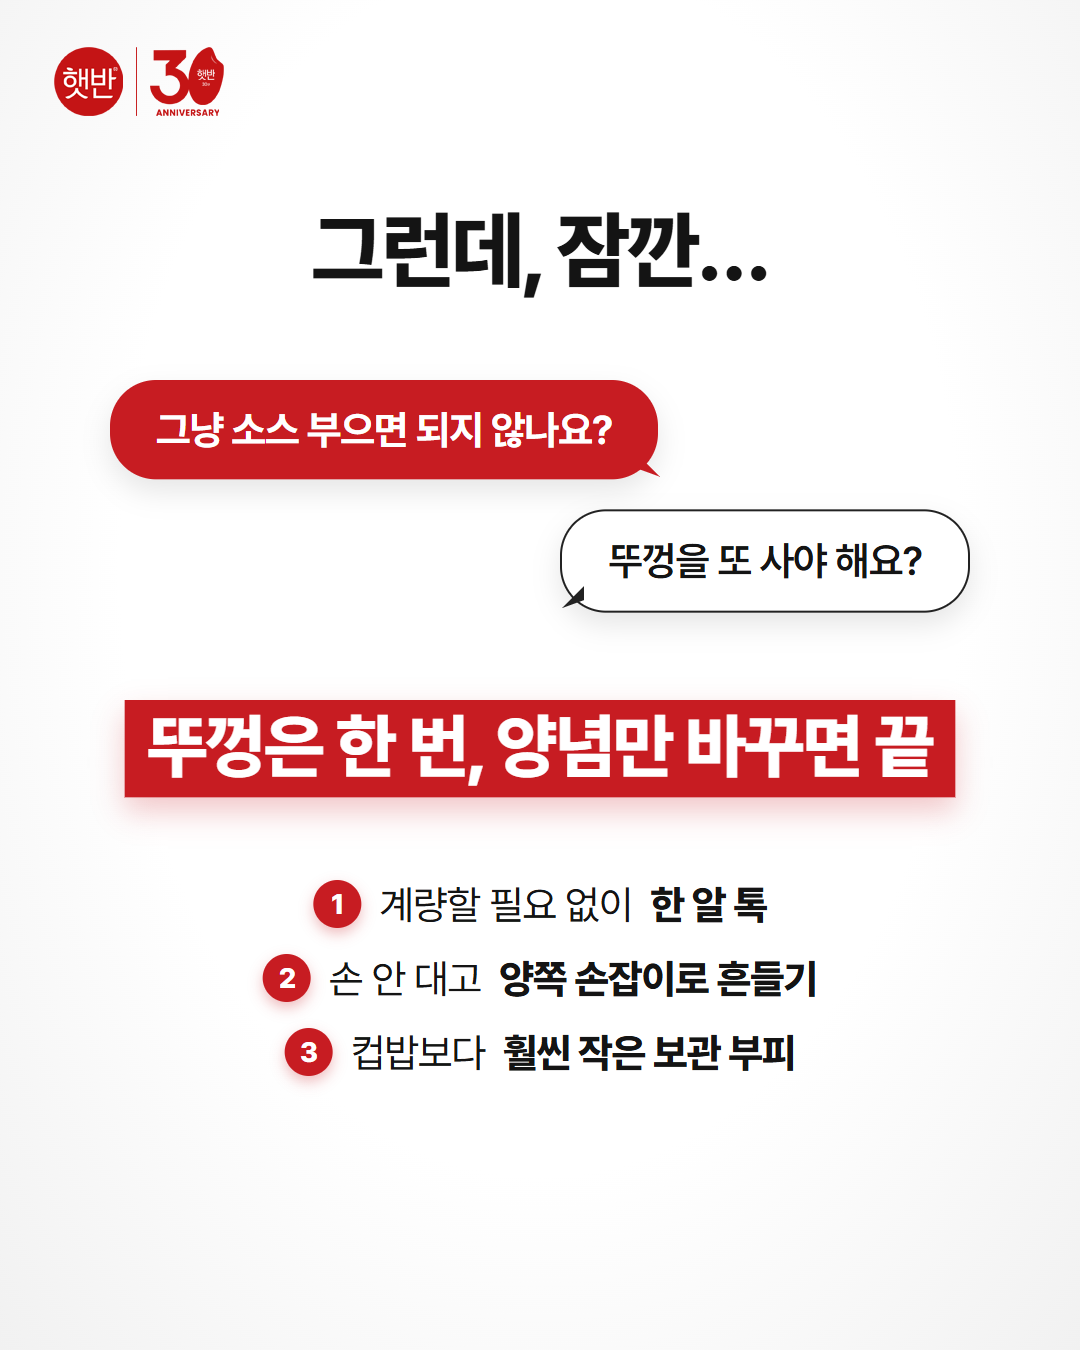
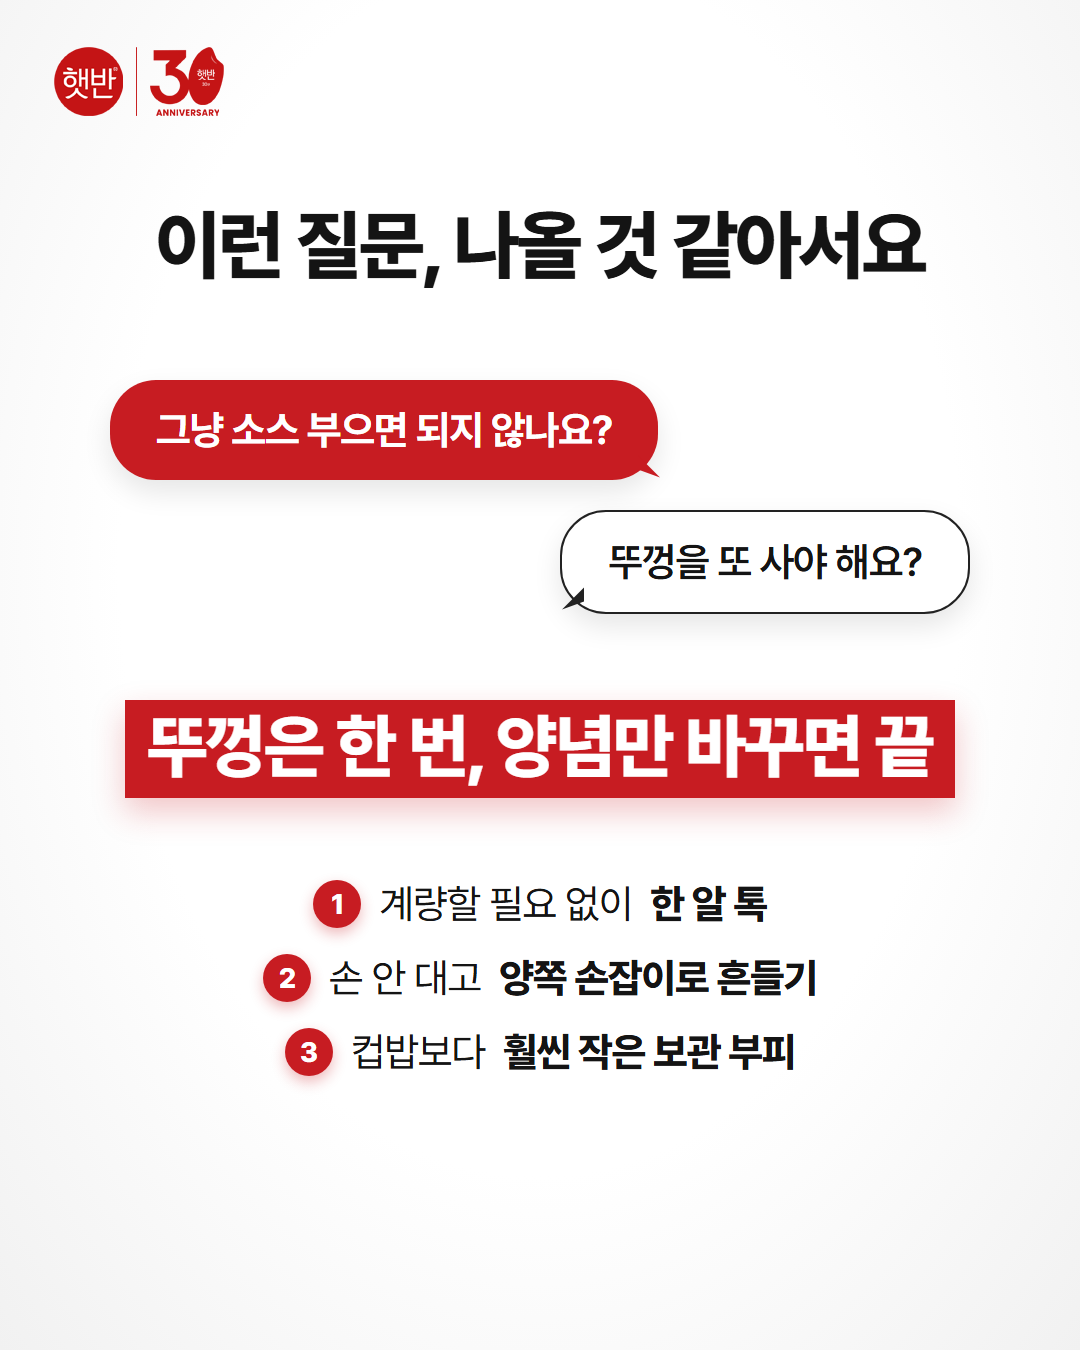
Auto-sync: 2026-11-13 23:48:06

diff --git a/햇반공모전/캐러셀_슬라이드.html b/햇반공모전/캐러셀_슬라이드.html
@@ -84,7 +84,7 @@ body{background:#ddd;font-family:Pretendard,"Malgun Gothic",sans-serif;color:var
 <section class="slide" id="s10">
   <div class="logo"><img src="참고이미지/햇반30로고.png"></div>
   <div class="center" style="top:200px">
-    <div class="h-bold" style="font-size:84px">그런데, 잠깐…</div>
+    <div class="h-bold" style="font-size:76px">이런 질문, 나올 것 같아서요</div>
   </div>
   <div class="bubbles" style="top:380px">
     <div class="b r" style="align-self:flex-start">그냥 소스 부으면 되지 않나요?</div>
@@ -188,10 +188,11 @@ body{background:#ddd;font-family:Pretendard,"Malgun Gothic",sans-serif;color:var
 </section>
 
 <!-- 09 부피 -->
-<section class="slide" id="s09" style="background:radial-gradient(ellipse at 50% 50%,#f1f1f0,#ebebea 80%)">
-  <img src="출품1_이미지/P7.webp" style="position:absolute;left:100px;top:270px;width:880px;-webkit-mask-image:linear-gradient(90deg,transparent,#000 9%,#000 91%,transparent),linear-gradient(180deg,transparent,#000 7%,#000 93%,transparent);-webkit-mask-composite:source-in;mask-image:linear-gradient(90deg,transparent,#000 9%,#000 91%,transparent),linear-gradient(180deg,transparent,#000 7%,#000 93%,transparent);mask-composite:intersect">
-  <div style="position:absolute;left:405px;top:466px;width:220px;height:68px;background:linear-gradient(180deg,#efece6,#eeebe4 55%,#e9e5dd);filter:blur(2px);clip-path:polygon(18px 4px,217px 4px,214px 38px,198px 40px,196px 64px,76px 64px,74px 49px,40px 44px,18px 40px)"></div>
-  <div style="position:absolute;left:728px;top:1128px;width:195px;height:148px;background:radial-gradient(ellipse 50% 50% at 50% 50%,#eeeeec 72%,rgba(238,238,236,0) 100%)"></div><div style="position:absolute;left:744px;top:1160px;width:56px;height:41px;overflow:hidden"><img src="출품1_이미지/P3.webp" style="position:absolute;left:-27.5px;top:-303.2px;width:299.2px;mix-blend-mode:multiply"></div><div style="position:absolute;left:800px;top:1160px;width:56px;height:41px;overflow:hidden"><img src="출품1_이미지/P3.webp" style="position:absolute;left:-91.2px;top:-303.2px;width:299.2px;mix-blend-mode:multiply"></div><div style="position:absolute;left:856px;top:1160px;width:56px;height:41px;overflow:hidden"><img src="출품1_이미지/P3.webp" style="position:absolute;left:-154.9px;top:-303.2px;width:299.2px;mix-blend-mode:multiply"></div><div style="position:absolute;left:744px;top:1205px;width:56px;height:41px;overflow:hidden"><img src="출품1_이미지/P3.webp" style="position:absolute;left:-217.1px;top:-303.2px;width:299.2px;mix-blend-mode:multiply"></div><div style="position:absolute;left:800px;top:1205px;width:56px;height:41px;overflow:hidden"><img src="출품1_이미지/P3.webp" style="position:absolute;left:-27.5px;top:-303.2px;width:299.2px;mix-blend-mode:multiply"></div><div style="position:absolute;left:856px;top:1205px;width:56px;height:41px;overflow:hidden"><img src="출품1_이미지/P3.webp" style="position:absolute;left:-154.9px;top:-303.2px;width:299.2px;mix-blend-mode:multiply"></div>
+<section class="slide" id="s09">
+  
+  
+  <div style="position:absolute;inset:0;filter:brightness(1.065) contrast(1.04)"><img src="출품1_이미지/P7.webp" style="position:absolute;left:100px;top:270px;width:880px;-webkit-mask-image:linear-gradient(90deg,transparent,#000 9%,#000 91%,transparent),linear-gradient(180deg,transparent,#000 7%,#000 93%,transparent);-webkit-mask-composite:source-in;mask-image:linear-gradient(90deg,transparent,#000 9%,#000 91%,transparent),linear-gradient(180deg,transparent,#000 7%,#000 93%,transparent);mask-composite:intersect"><div style="position:absolute;left:405px;top:466px;width:220px;height:68px;background:linear-gradient(180deg,#efece6,#eeebe4 55%,#e9e5dd);filter:blur(2px);clip-path:polygon(18px 4px,217px 4px,214px 38px,198px 40px,196px 64px,76px 64px,74px 49px,40px 44px,18px 40px)"></div></div>
+  <div style="position:absolute;left:728px;top:1128px;width:195px;height:148px;background:radial-gradient(ellipse 50% 50% at 50% 50%,#fdfdfc 72%,rgba(253,253,252,0) 100%)"></div><div style="position:absolute;left:744px;top:1160px;width:56px;height:41px;overflow:hidden"><img src="출품1_이미지/P3.webp" style="position:absolute;left:-27.5px;top:-303.2px;width:299.2px;mix-blend-mode:multiply"></div><div style="position:absolute;left:800px;top:1160px;width:56px;height:41px;overflow:hidden"><img src="출품1_이미지/P3.webp" style="position:absolute;left:-91.2px;top:-303.2px;width:299.2px;mix-blend-mode:multiply"></div><div style="position:absolute;left:856px;top:1160px;width:56px;height:41px;overflow:hidden"><img src="출품1_이미지/P3.webp" style="position:absolute;left:-154.9px;top:-303.2px;width:299.2px;mix-blend-mode:multiply"></div><div style="position:absolute;left:744px;top:1205px;width:56px;height:41px;overflow:hidden"><img src="출품1_이미지/P3.webp" style="position:absolute;left:-217.1px;top:-303.2px;width:299.2px;mix-blend-mode:multiply"></div><div style="position:absolute;left:800px;top:1205px;width:56px;height:41px;overflow:hidden"><img src="출품1_이미지/P3.webp" style="position:absolute;left:-27.5px;top:-303.2px;width:299.2px;mix-blend-mode:multiply"></div><div style="position:absolute;left:856px;top:1205px;width:56px;height:41px;overflow:hidden"><img src="출품1_이미지/P3.webp" style="position:absolute;left:-154.9px;top:-303.2px;width:299.2px;mix-blend-mode:multiply"></div>
   <div class="logo"><img src="참고이미지/햇반30로고.png"></div>
   <div class="center" style="top:150px">
     <div class="h-bold" style="font-size:70px">부피는 줄이고, <span class="box" style="font-size:70px;padding:2px 16px 6px">맛은 그대로</span></div>
@@ -204,8 +205,8 @@ body{background:#ddd;font-family:Pretendard,"Malgun Gothic",sans-serif;color:var
 <section class="slide" id="s11">
   <div class="logo"><img src="참고이미지/햇반30로고.png"></div>
   <div class="center" style="top:190px">
-    <div class="h-light" style="font-size:66px">요약하면,</div>
-    <div class="h-bold" style="font-size:80px;margin-top:6px">햇뚜 이렇게 씁니다</div>
+    <div class="h-light" style="font-size:66px">한 장으로 보는</div>
+    <div class="h-bold" style="font-size:80px;margin-top:6px">햇뚜 사용법</div>
   </div>
   <img src="출품1_이미지/P8.webp" style="position:absolute;left:30px;top:430px;width:1020px;mix-blend-mode:multiply">
   <div class="list" style="top:820px;gap:22px">
